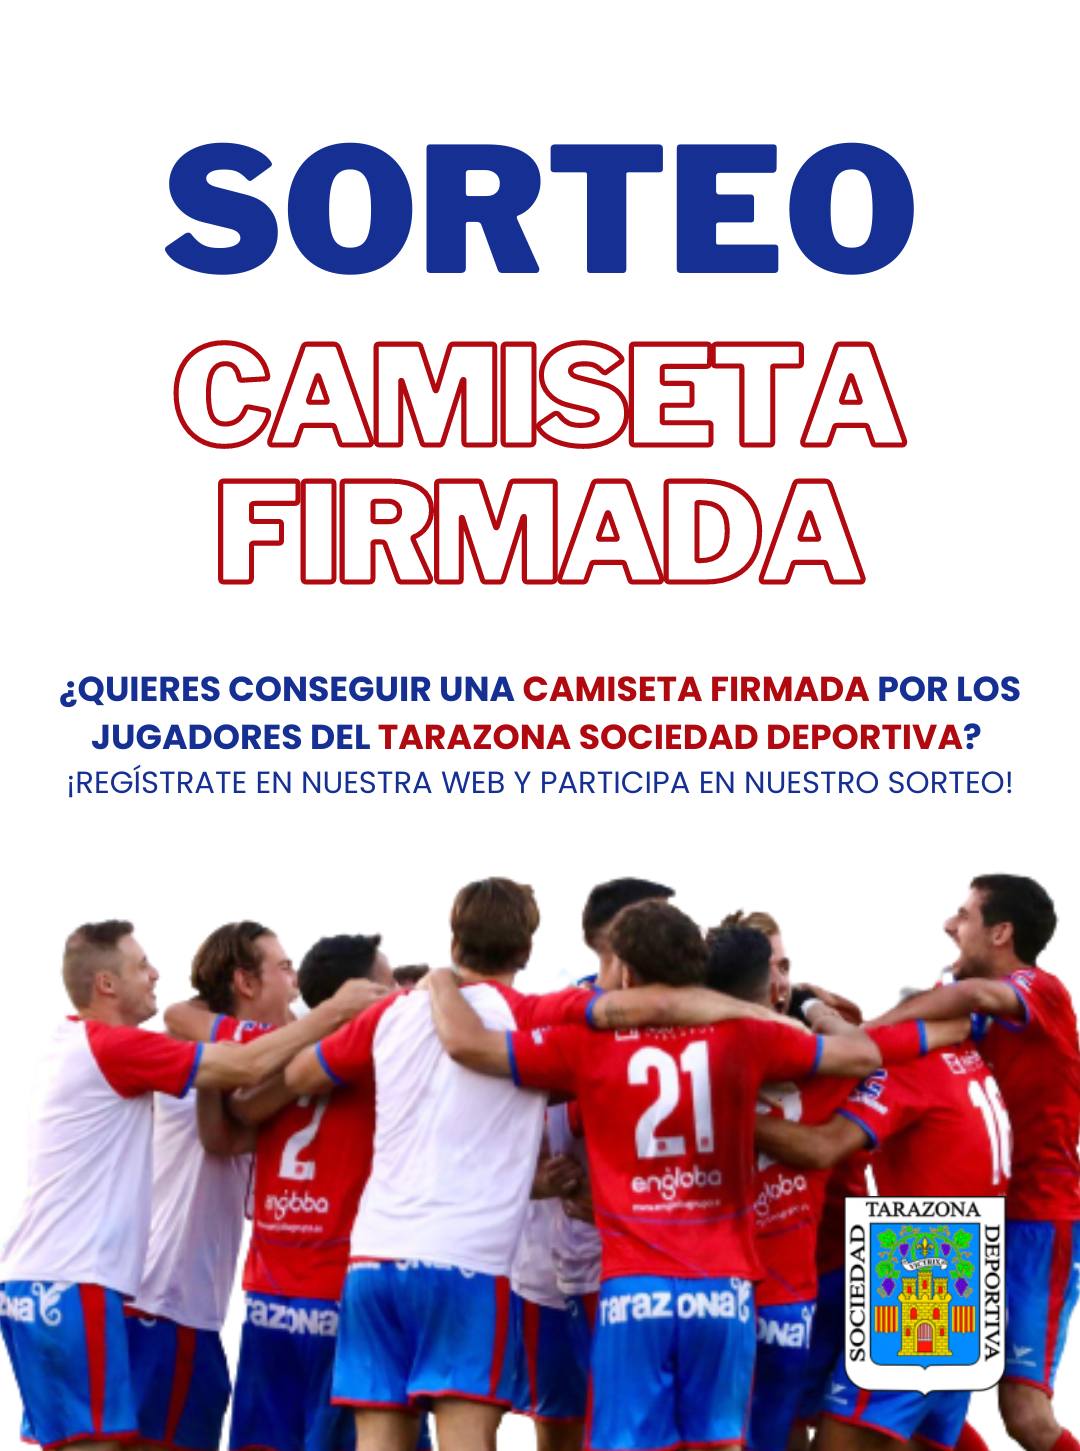
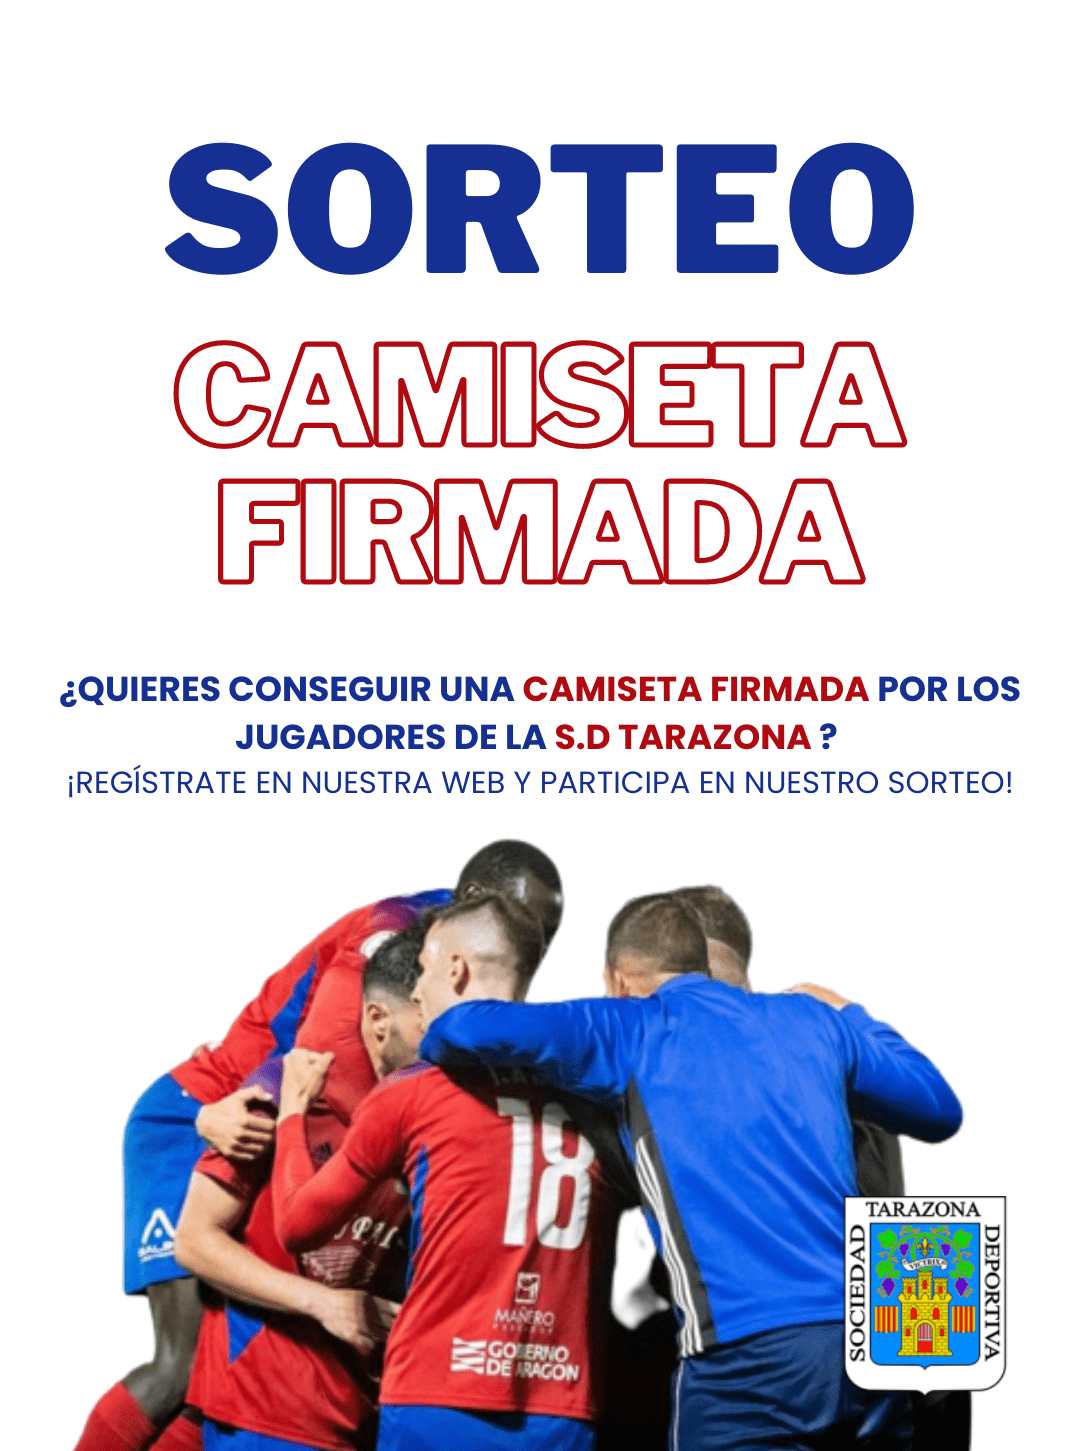
Change lotery images and fix show lotery number

diff --git a/resources/views/admin/index.blade.php b/resources/views/admin/index.blade.php
@@ -203,19 +203,22 @@
                     --}}
 
                     {{-- Campaign sorteo --}}
-                    <div style="background-color: #f8fafc; padding: 8px 0; text-align:center;">
-                        <div class="row">
-                            <div class="col-4 text-center" style="border-right: 1px solid silver;">
-                                <img src="{{url('landing/assets/sorteo.png')}}" alt="" style="width: 60%;">
-                            </div>
-                            <div class="col-1"></div>
-                            <div class="col-7">
-                                <h4>Gracias por registrarte. Tu n&uacute;mero de participaci&oacute;n es: <b>{{Auth::user()->campaign}}</b></h4>
+                    @if(isset(Auth::user()->campaign))
+                        <div style="background-color: #f8fafc; padding: 8px 0; text-align:center;">
+                            <div class="row">
+                                <div class="col-4 text-center" style="border-right: 1px solid silver;">
+                                    <img src="{{url('landing/assets/sorteo.png')}}" alt="" style="width: 60%;">
+                                </div>
+                                <div class="col-1"></div>
+                                <div class="col-7">
+                                    <h4>Gracias por registrarte. Tu n&uacute;mero de participaci&oacute;n es: <b>{{Auth::user()->campaign}}</b></h4>
 
+                                </div>
                             </div>
                         </div>
-                    </div>
-                    <br>
+                    @endif
+
+
 
                     <div class="row">
                         <div class="col-md-9 col-sm-12 col-xs-12">
